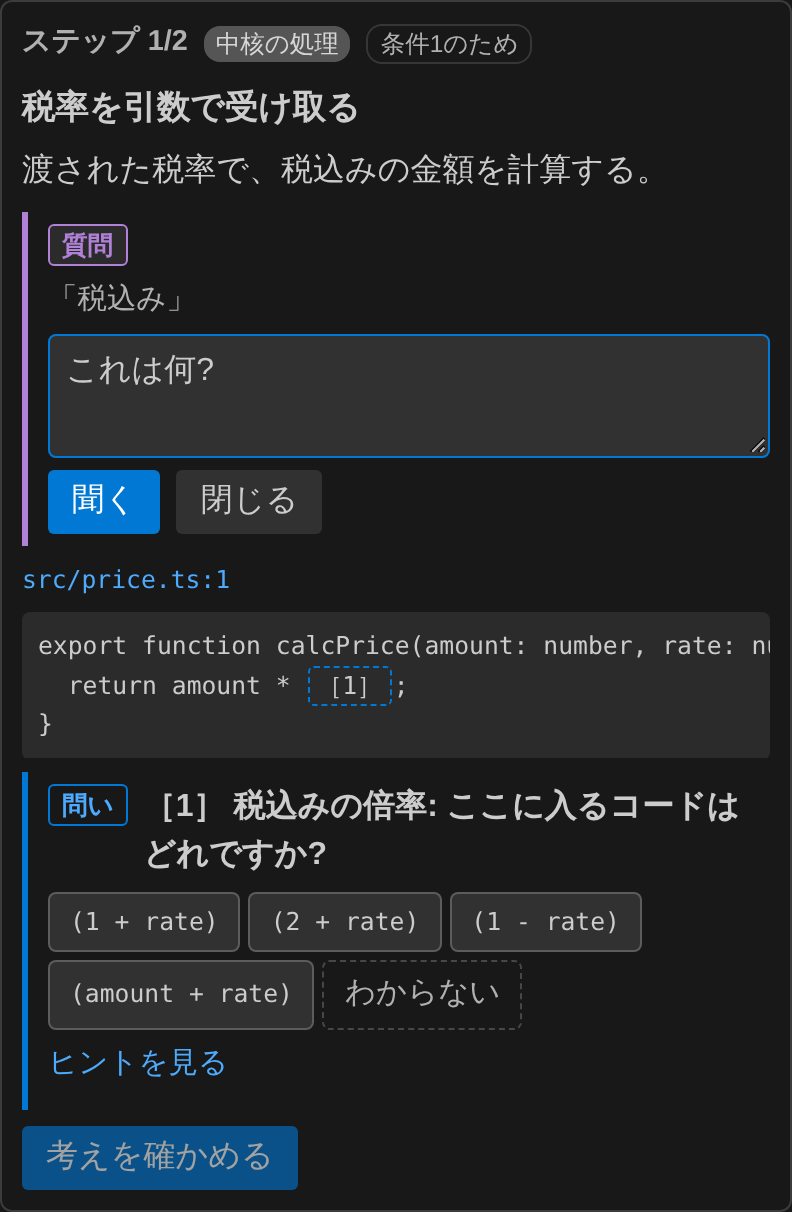
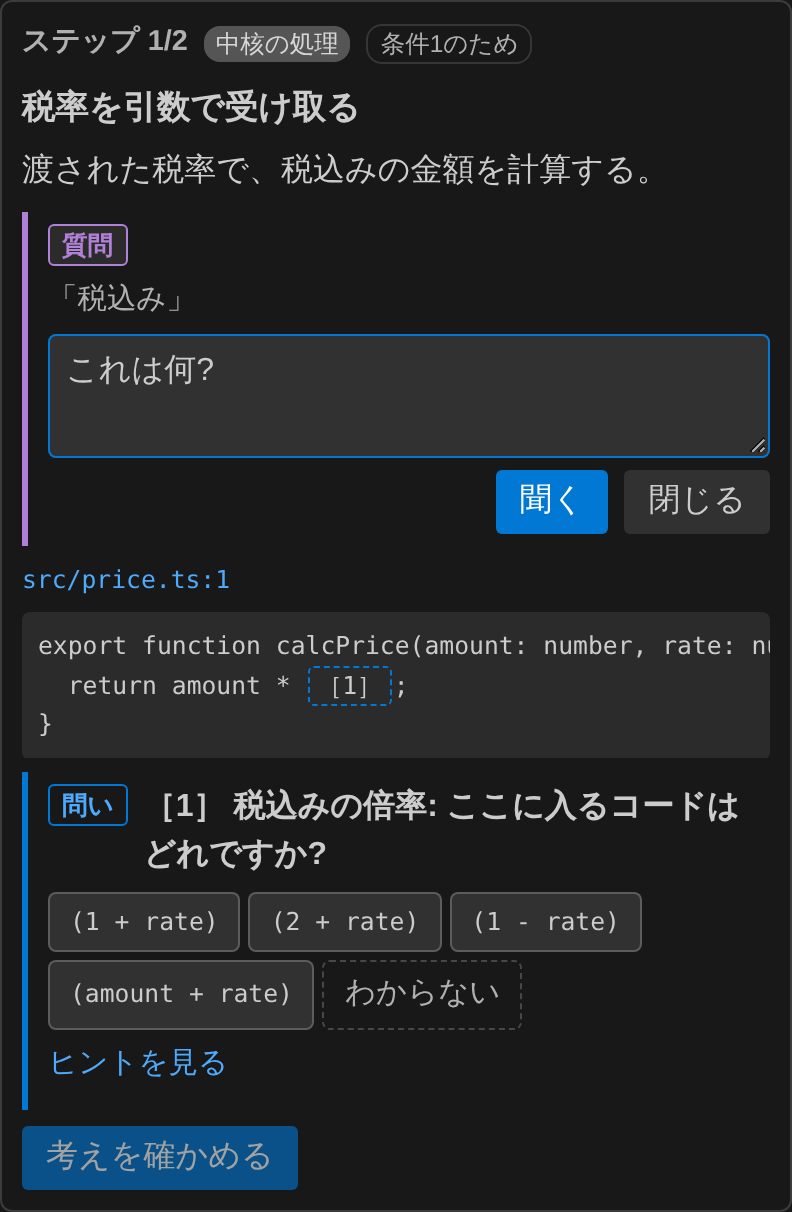
質問の欄のボタンを右に寄せ、ステップの自動スクロールを見直す
- 質問の「聞く」「閉じる」を右に寄せ、回答のあとの「閉じる」も同じ見た目で右に寄せる
- 短いステップのために末尾へ余白を足すのをやめ、画面に収まるステップは会話のいちばん下まで、
  収まらないステップはステップのいちばん上まで動かす
- 手順の最初だけは、全体の流れ (要件の整理とステップの一覧) を画面のいちばん上に合わせる
  (下の内容が足りないときだけ余白で補い、次のステップを出すときに消す)

Claude-Session: https://claude.ai/code/session_01AcaNs2BYbQsurrtu2VFNfS

Changed region(s): [[0.0606, 0.3663, 0.4242, 0.4579], [0.6061, 0.3663, 0.9697, 0.4579]]

diff --git a/media/main.js b/media/main.js
@@ -93,8 +93,7 @@
   }
   function append(node) {
     const stick = nearBottom();
-    // たどる手順の末尾に置いた余白は、続きが足されたら要らない
-    if (typeof dropTail === 'function') dropTail();
+    if (typeof dropSpace === 'function') dropSpace();
     messagesEl.appendChild(node);
     if (stick) messagesEl.scrollTop = messagesEl.scrollHeight;
     return node;
@@ -240,7 +239,7 @@
   const UNKNOWN = -2; // 「わからない」を選んだことを表す、選択肢の番号
   const VERDICT = { changed: '変更が必要', checked: '変更は不要' };
   const WHOLE_FILE_LINES = 8; // 新しいファイル・消すファイルの差分で、最初に見せる行数
-  const TOP_GAP = 20; // ステップを上に合わせたときの、上の余白と会話の欄の内側の余白
+  const TOP_GAP = 20; // 会話の欄の内側の余白 (ステップが画面に収まるかの判定に使う)
   const walks = new Map(); // walk の番号 → { el, kind, steps: Map(index → stepState) }
 
   function fileLink(path, line, text) {
@@ -347,25 +346,38 @@
     }
     return box;
   }
-  /** 次のステップへは、画面をなめらかに動かす。続けて流しているステップでは、最初の1つにだけ合わせる (利用者が操作するまで動かさない) */
-  function reveal(w, node) {
-    fitTail(node);
-    if (!w.hold) glide(node);
-  }
   /**
-   * 新しいステップを、いつも画面のいちばん上に合わせられるようにする。
-   * 会話の末尾にある短いステップは、その下に続きが無いと上まで動かせないので、足りない高さを末尾の余白で補う。
-   * 余白は、その下に何かが足されたら消す (append)。
+   * 次のステップへは、画面をなめらかに動かす (余白は足さない)。
+   * - 手順の最初は、全体の流れ (要件の整理・ステップの一覧) が画面のいちばん上に来るようにする。
+   *   その下の内容が短くて上まで動かせないときだけ、足りない高さを末尾の余白で補う (次のステップを出すときに消す)
+   * - 画面に収まる短いステップは、会話のいちばん下まで動かす (余白は足さない。ステップ全体が見える)
+   * - 収まらない長いステップは、ステップのいちばん上に合わせる
+   * 続けて流しているステップでは、最初の1つにだけ合わせる (利用者が操作するまで動かさない)
    */
-  const tail = el('div', 'wtail');
-  function fitTail(node) {
-    tail.style.height = '0px';
-    messagesEl.appendChild(tail);
-    const below = tail.getBoundingClientRect().top - node.getBoundingClientRect().top;
-    tail.style.height = `${Math.max(0, Math.ceil(messagesEl.clientHeight - below - TOP_GAP))}px`;
+  function reveal(w, node) {
+    if (!w.started) {
+      w.started = true;
+      if (w.head) {
+        addSpace(w.head);
+        glide(w.head);
+      }
+      return;
+    }
+    dropSpace();
+    if (w.hold) return;
+    if (node.offsetHeight <= messagesEl.clientHeight - TOP_GAP) messagesEl.scrollTo({ top: messagesEl.scrollHeight, behavior: calm ? 'auto' : 'smooth' });
+    else glide(node);
   }
-  function dropTail() {
-    tail.style.height = '0px';
+
+  const space = el('div', 'wspace');
+  function addSpace(node) {
+    space.style.height = '0px';
+    messagesEl.appendChild(space);
+    const below = space.getBoundingClientRect().top - node.getBoundingClientRect().top;
+    space.style.height = `${Math.max(0, Math.ceil(messagesEl.clientHeight - below - TOP_GAP))}px`;
+  }
+  function dropSpace() {
+    space.remove();
   }
 
   /** 空欄つきのコード。離れた行は折りたたむ */
@@ -936,7 +948,8 @@
       const v = m.view;
       const box = el('div', 'walk');
       box.dataset.walk = String(m.walk);
-      const w = { el: box, kind: v.kind, steps: new Map(), hold: false };
+      // started: 最初のステップを出したか (最初だけは、全体の流れを画面の上に合わせる)
+      const w = { el: box, kind: v.kind, steps: new Map(), hold: false, started: false };
       walks.set(m.walk, w);
       setWalking(true);
       const head = el('section', 'wstep wstart');
@@ -959,6 +972,7 @@
         });
         head.appendChild(sec);
       }
+      w.head = head;
       box.appendChild(head);
       append(box);
       head.scrollIntoView({ block: 'start' });
@@ -1125,10 +1139,13 @@
     const { box } = entry;
     if (m.error) box.appendChild(textBlock('attn', m.error));
     else box.appendChild(el('div', 'wtext qanswer', renderMarkdown(m.text || '')));
-    const close = el('button', 'link');
+    // 閉じるボタンは、質問を入力していたときの「閉じる」と同じ見た目で、右に寄せる
+    const row = el('div', 'qrow');
+    const close = el('button', 'secondary');
     close.textContent = '閉じる';
     close.addEventListener('click', () => box.remove());
-    box.appendChild(close);
+    row.appendChild(close);
+    box.appendChild(row);
   }
 
   // ---------- 入力欄の表示 ----------

diff --git a/media/main.css b/media/main.css
@@ -282,8 +282,8 @@ details.more > * + * { margin-top: 6px; }
 .kbox.hint .ktag { margin-bottom: 4px; }
 .hitem { padding: 4px 0; }
 .hitem + .hitem { border-top: 1px solid var(--vscode-widget-border, rgba(128,128,128,.3)); }
-/* 末尾の短いステップを画面の上に合わせるための余白 (高さは画面側で決める) */
-.wtail { flex: none; }
+/* 手順の最初に、全体の流れを画面の上に合わせるための余白 (高さは画面側で決め、次のステップを出すときに消す) */
+.wspace { flex: none; }
 
 /* ---------- 手順の途中の質問 ---------- */
 /* 質問 = 紫の線。選んだ部分の近くに開き、回答もその場に出す */
@@ -298,11 +298,10 @@ details.more > * + * { margin-top: 6px; }
   border: 1px solid var(--vscode-input-border, transparent); border-radius: 4px; padding: 6px 8px;
 }
 .qinput:focus { outline: 1px solid var(--vscode-focusBorder); outline-offset: -1px; }
-.qrow { display: flex; gap: 8px; }
+.qrow { display: flex; gap: 8px; justify-content: flex-end; }
 .qwait { display: flex; align-items: center; gap: 8px; font-size: 0.92em; opacity: 0.8; }
 .qanswer p { margin: 0 0 4px; }
 .qanswer { white-space: normal; }
-.qask > button.link { align-self: flex-start; }
 .selask {
   position: fixed; z-index: 20; font-size: 0.9em; padding: 2px 10px;
   box-shadow: 0 2px 8px rgba(0, 0, 0, .35);
